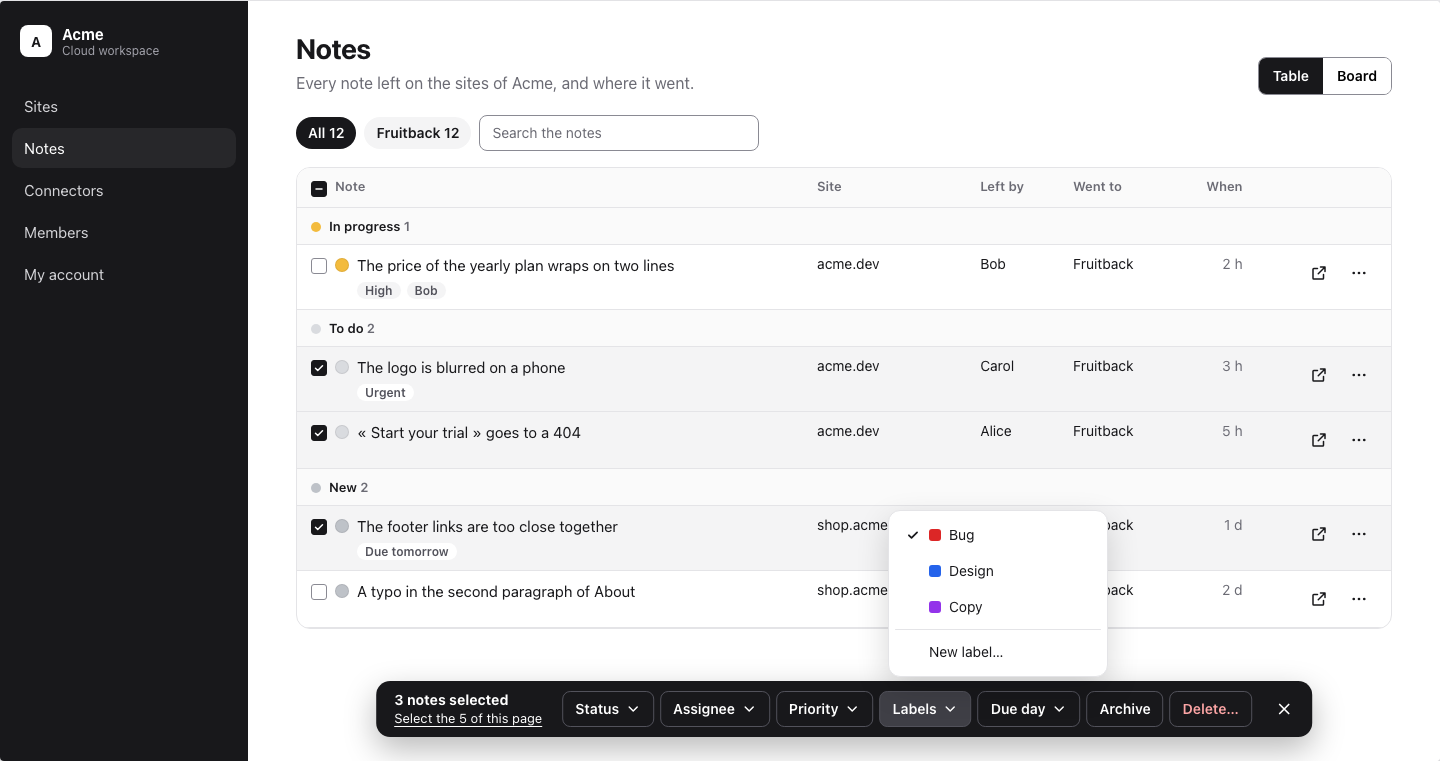
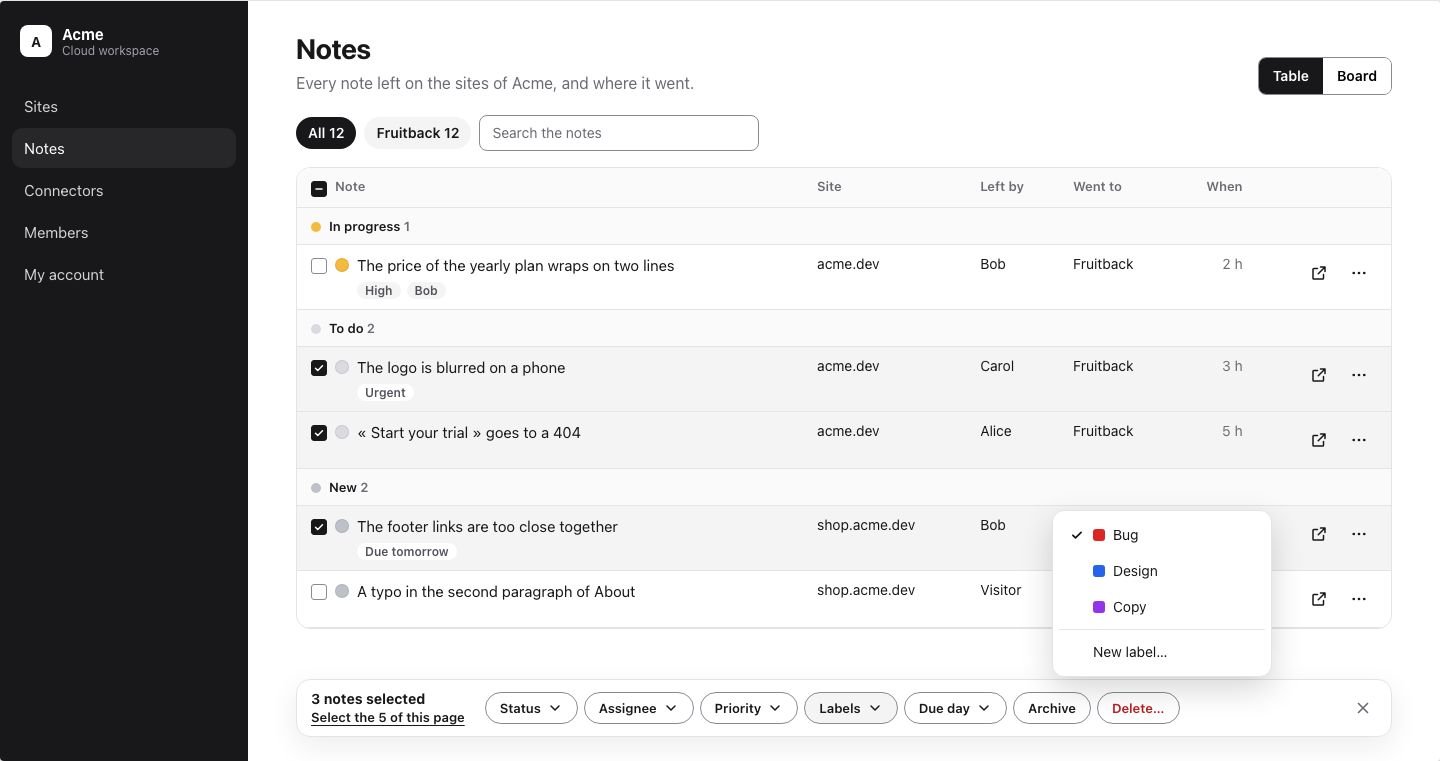
docs(design): the bar of the board is a panel of the console under the list (FRU-656)

Changed region(s): [[0.2188, 0.6951, 0.9375, 0.9974], [0.625, 0.6951, 0.6875, 0.7556], [0.6875, 0.7556, 0.7188, 0.7858]]

diff --git a/design/task-bulk/task-bulk.html b/design/task-bulk/task-bulk.html
@@ -177,7 +177,7 @@ table.texts td,table.texts th{border:1px solid var(--line);padding:6px 10px;text
   </aside>
     <div class="main-wrap"><main><header class="pg-head"><div><h1>Notes</h1><p class="lead">Every note left on the sites of Acme, and where it went.</p></div>
   <div class="view" role="group" aria-label="View"><button type="button" class="on">Table</button><button type="button">Board</button></div></header>
-  <div class="filters"><span class="chip on">All 12</span><span class="chip">Fruitback 12</span><span class="search">Search the notes</span></div><div class="table"><table><thead><tr><th><span class="cell"><span class="box some shown" aria-hidden="true"><svg aria-hidden="true" viewBox="0 0 24 24"><path d="M6 12h12" stroke="currentColor" stroke-width="3" stroke-linecap="round"/></svg></span>Note</span></th><th>Site</th><th>Left by</th><th>Went to</th><th class="end">When</th><th></th></tr></thead><tbody><tr class="group"><th colspan="6"><span class="dot" style="background:#f3bb3d"></span>In progress <span class="muted">1</span></th></tr><tr class=""><td class="c-note"><span class="cell"><span class="box off shown" aria-hidden="true"></span><span class="dot big" style="background:#f3bb3d"></span><span><a href="#" class="text">The price of the yearly plan wraps on two lines</a><span class="marks"><span class="mark">High</span><span class="mark">Bob</span></span></span></span></td><td>acme.dev</td><td>Bob</td><td>Fruitback</td><td class="end muted">2 h</td><td class="end"><span class="icons"><span class="ib"><svg aria-hidden="true" viewBox="0 0 24 24"><path d="M14 4h6v6M20 4l-9 9M18 14v5a1 1 0 0 1-1 1H5a1 1 0 0 1-1-1V7a1 1 0 0 1 1-1h5" fill="none" stroke="currentColor" stroke-width="2" stroke-linecap="round" stroke-linejoin="round"/></svg></span><span class="ib"><svg aria-hidden="true" viewBox="0 0 24 24"><circle cx="5" cy="12" r="1.8" fill="currentColor"/><circle cx="12" cy="12" r="1.8" fill="currentColor"/><circle cx="19" cy="12" r="1.8" fill="currentColor"/></svg></span></span></td></tr></tbody><tbody><tr class="group"><th colspan="6"><span class="dot" style="background:#d9dbdf"></span>To do <span class="muted">2</span></th></tr><tr class="sel"><td class="c-note"><span class="cell"><span class="box on shown" aria-hidden="true"><svg aria-hidden="true" viewBox="0 0 24 24"><path d="M5 12.5l4.5 4.5L19 7.5" fill="none" stroke="currentColor" stroke-width="3" stroke-linecap="round" stroke-linejoin="round"/></svg></span><span class="dot big" style="background:#d9dbdf"></span><span><a href="#" class="text">The logo is blurred on a phone</a><span class="marks"><span class="mark">Urgent</span></span></span></span></td><td>acme.dev</td><td>Carol</td><td>Fruitback</td><td class="end muted">3 h</td><td class="end"><span class="icons"><span class="ib"><svg aria-hidden="true" viewBox="0 0 24 24"><path d="M14 4h6v6M20 4l-9 9M18 14v5a1 1 0 0 1-1 1H5a1 1 0 0 1-1-1V7a1 1 0 0 1 1-1h5" fill="none" stroke="currentColor" stroke-width="2" stroke-linecap="round" stroke-linejoin="round"/></svg></span><span class="ib"><svg aria-hidden="true" viewBox="0 0 24 24"><circle cx="5" cy="12" r="1.8" fill="currentColor"/><circle cx="12" cy="12" r="1.8" fill="currentColor"/><circle cx="19" cy="12" r="1.8" fill="currentColor"/></svg></span></span></td></tr><tr class="sel"><td class="c-note"><span class="cell"><span class="box on shown" aria-hidden="true"><svg aria-hidden="true" viewBox="0 0 24 24"><path d="M5 12.5l4.5 4.5L19 7.5" fill="none" stroke="currentColor" stroke-width="3" stroke-linecap="round" stroke-linejoin="round"/></svg></span><span class="dot big" style="background:#d9dbdf"></span><span><a href="#" class="text">« Start your trial » goes to a 404</a></span></span></td><td>acme.dev</td><td>Alice</td><td>Fruitback</td><td class="end muted">5 h</td><td class="end"><span class="icons"><span class="ib"><svg aria-hidden="true" viewBox="0 0 24 24"><path d="M14 4h6v6M20 4l-9 9M18 14v5a1 1 0 0 1-1 1H5a1 1 0 0 1-1-1V7a1 1 0 0 1 1-1h5" fill="none" stroke="currentColor" stroke-width="2" stroke-linecap="round" stroke-linejoin="round"/></svg></span><span class="ib"><svg aria-hidden="true" viewBox="0 0 24 24"><circle cx="5" cy="12" r="1.8" fill="currentColor"/><circle cx="12" cy="12" r="1.8" fill="currentColor"/><circle cx="19" cy="12" r="1.8" fill="currentColor"/></svg></span></span></td></tr></tbody><tbody><tr class="group"><th colspan="6"><span class="dot" style="background:#bec2c8"></span>New <span class="muted">2</span></th></tr><tr class="sel"><td class="c-note"><span class="cell"><span class="box on shown" aria-hidden="true"><svg aria-hidden="true" viewBox="0 0 24 24"><path d="M5 12.5l4.5 4.5L19 7.5" fill="none" stroke="currentColor" stroke-width="3" stroke-linecap="round" stroke-linejoin="round"/></svg></span><span class="dot big" style="background:#bec2c8"></span><span><a href="#" class="text">The footer links are too close together</a><span class="marks"><span class="mark">Due tomorrow</span></span></span></span></td><td>shop.acme.dev</td><td>Bob</td><td>Fruitback</td><td class="end muted">1 d</td><td class="end"><span class="icons"><span class="ib"><svg aria-hidden="true" viewBox="0 0 24 24"><path d="M14 4h6v6M20 4l-9 9M18 14v5a1 1 0 0 1-1 1H5a1 1 0 0 1-1-1V7a1 1 0 0 1 1-1h5" fill="none" stroke="currentColor" stroke-width="2" stroke-linecap="round" stroke-linejoin="round"/></svg></span><span class="ib"><svg aria-hidden="true" viewBox="0 0 24 24"><circle cx="5" cy="12" r="1.8" fill="currentColor"/><circle cx="12" cy="12" r="1.8" fill="currentColor"/><circle cx="19" cy="12" r="1.8" fill="currentColor"/></svg></span></span></td></tr><tr class=""><td class="c-note"><span class="cell"><span class="box off shown" aria-hidden="true"></span><span class="dot big" style="background:#bec2c8"></span><span><a href="#" class="text">A typo in the second paragraph of About</a></span></span></td><td>shop.acme.dev</td><td>Visitor</td><td>Fruitback</td><td class="end muted">2 d</td><td class="end"><span class="icons"><span class="ib"><svg aria-hidden="true" viewBox="0 0 24 24"><path d="M14 4h6v6M20 4l-9 9M18 14v5a1 1 0 0 1-1 1H5a1 1 0 0 1-1-1V7a1 1 0 0 1 1-1h5" fill="none" stroke="currentColor" stroke-width="2" stroke-linecap="round" stroke-linejoin="round"/></svg></span><span class="ib"><svg aria-hidden="true" viewBox="0 0 24 24"><circle cx="5" cy="12" r="1.8" fill="currentColor"/><circle cx="12" cy="12" r="1.8" fill="currentColor"/><circle cx="19" cy="12" r="1.8" fill="currentColor"/></svg></span></span></td></tr></tbody></table></div></main><div style="--x:640px"><section class="bar" aria-label="The selected notes">
+  <div class="filters"><span class="chip on">All 12</span><span class="chip">Fruitback 12</span><span class="search">Search the notes</span></div><div class="table"><table><thead><tr><th><span class="cell"><span class="box some shown" aria-hidden="true"><svg aria-hidden="true" viewBox="0 0 24 24"><path d="M6 12h12" stroke="currentColor" stroke-width="3" stroke-linecap="round"/></svg></span>Note</span></th><th>Site</th><th>Left by</th><th>Went to</th><th class="end">When</th><th></th></tr></thead><tbody><tr class="group"><th colspan="6"><span class="dot" style="background:#f3bb3d"></span>In progress <span class="muted">1</span></th></tr><tr class=""><td class="c-note"><span class="cell"><span class="box off shown" aria-hidden="true"></span><span class="dot big" style="background:#f3bb3d"></span><span><a href="#" class="text">The price of the yearly plan wraps on two lines</a><span class="marks"><span class="mark">High</span><span class="mark">Bob</span></span></span></span></td><td>acme.dev</td><td>Bob</td><td>Fruitback</td><td class="end muted">2 h</td><td class="end"><span class="icons"><span class="ib"><svg aria-hidden="true" viewBox="0 0 24 24"><path d="M14 4h6v6M20 4l-9 9M18 14v5a1 1 0 0 1-1 1H5a1 1 0 0 1-1-1V7a1 1 0 0 1 1-1h5" fill="none" stroke="currentColor" stroke-width="2" stroke-linecap="round" stroke-linejoin="round"/></svg></span><span class="ib"><svg aria-hidden="true" viewBox="0 0 24 24"><circle cx="5" cy="12" r="1.8" fill="currentColor"/><circle cx="12" cy="12" r="1.8" fill="currentColor"/><circle cx="19" cy="12" r="1.8" fill="currentColor"/></svg></span></span></td></tr></tbody><tbody><tr class="group"><th colspan="6"><span class="dot" style="background:#d9dbdf"></span>To do <span class="muted">2</span></th></tr><tr class="sel"><td class="c-note"><span class="cell"><span class="box on shown" aria-hidden="true"><svg aria-hidden="true" viewBox="0 0 24 24"><path d="M5 12.5l4.5 4.5L19 7.5" fill="none" stroke="currentColor" stroke-width="3" stroke-linecap="round" stroke-linejoin="round"/></svg></span><span class="dot big" style="background:#d9dbdf"></span><span><a href="#" class="text">The logo is blurred on a phone</a><span class="marks"><span class="mark">Urgent</span></span></span></span></td><td>acme.dev</td><td>Carol</td><td>Fruitback</td><td class="end muted">3 h</td><td class="end"><span class="icons"><span class="ib"><svg aria-hidden="true" viewBox="0 0 24 24"><path d="M14 4h6v6M20 4l-9 9M18 14v5a1 1 0 0 1-1 1H5a1 1 0 0 1-1-1V7a1 1 0 0 1 1-1h5" fill="none" stroke="currentColor" stroke-width="2" stroke-linecap="round" stroke-linejoin="round"/></svg></span><span class="ib"><svg aria-hidden="true" viewBox="0 0 24 24"><circle cx="5" cy="12" r="1.8" fill="currentColor"/><circle cx="12" cy="12" r="1.8" fill="currentColor"/><circle cx="19" cy="12" r="1.8" fill="currentColor"/></svg></span></span></td></tr><tr class="sel"><td class="c-note"><span class="cell"><span class="box on shown" aria-hidden="true"><svg aria-hidden="true" viewBox="0 0 24 24"><path d="M5 12.5l4.5 4.5L19 7.5" fill="none" stroke="currentColor" stroke-width="3" stroke-linecap="round" stroke-linejoin="round"/></svg></span><span class="dot big" style="background:#d9dbdf"></span><span><a href="#" class="text">« Start your trial » goes to a 404</a></span></span></td><td>acme.dev</td><td>Alice</td><td>Fruitback</td><td class="end muted">5 h</td><td class="end"><span class="icons"><span class="ib"><svg aria-hidden="true" viewBox="0 0 24 24"><path d="M14 4h6v6M20 4l-9 9M18 14v5a1 1 0 0 1-1 1H5a1 1 0 0 1-1-1V7a1 1 0 0 1 1-1h5" fill="none" stroke="currentColor" stroke-width="2" stroke-linecap="round" stroke-linejoin="round"/></svg></span><span class="ib"><svg aria-hidden="true" viewBox="0 0 24 24"><circle cx="5" cy="12" r="1.8" fill="currentColor"/><circle cx="12" cy="12" r="1.8" fill="currentColor"/><circle cx="19" cy="12" r="1.8" fill="currentColor"/></svg></span></span></td></tr></tbody><tbody><tr class="group"><th colspan="6"><span class="dot" style="background:#bec2c8"></span>New <span class="muted">2</span></th></tr><tr class="sel"><td class="c-note"><span class="cell"><span class="box on shown" aria-hidden="true"><svg aria-hidden="true" viewBox="0 0 24 24"><path d="M5 12.5l4.5 4.5L19 7.5" fill="none" stroke="currentColor" stroke-width="3" stroke-linecap="round" stroke-linejoin="round"/></svg></span><span class="dot big" style="background:#bec2c8"></span><span><a href="#" class="text">The footer links are too close together</a><span class="marks"><span class="mark">Due tomorrow</span></span></span></span></td><td>shop.acme.dev</td><td>Bob</td><td>Fruitback</td><td class="end muted">1 d</td><td class="end"><span class="icons"><span class="ib"><svg aria-hidden="true" viewBox="0 0 24 24"><path d="M14 4h6v6M20 4l-9 9M18 14v5a1 1 0 0 1-1 1H5a1 1 0 0 1-1-1V7a1 1 0 0 1 1-1h5" fill="none" stroke="currentColor" stroke-width="2" stroke-linecap="round" stroke-linejoin="round"/></svg></span><span class="ib"><svg aria-hidden="true" viewBox="0 0 24 24"><circle cx="5" cy="12" r="1.8" fill="currentColor"/><circle cx="12" cy="12" r="1.8" fill="currentColor"/><circle cx="19" cy="12" r="1.8" fill="currentColor"/></svg></span></span></td></tr><tr class=""><td class="c-note"><span class="cell"><span class="box off shown" aria-hidden="true"></span><span class="dot big" style="background:#bec2c8"></span><span><a href="#" class="text">A typo in the second paragraph of About</a></span></span></td><td>shop.acme.dev</td><td>Visitor</td><td>Fruitback</td><td class="end muted">2 d</td><td class="end"><span class="icons"><span class="ib"><svg aria-hidden="true" viewBox="0 0 24 24"><path d="M14 4h6v6M20 4l-9 9M18 14v5a1 1 0 0 1-1 1H5a1 1 0 0 1-1-1V7a1 1 0 0 1 1-1h5" fill="none" stroke="currentColor" stroke-width="2" stroke-linecap="round" stroke-linejoin="round"/></svg></span><span class="ib"><svg aria-hidden="true" viewBox="0 0 24 24"><circle cx="5" cy="12" r="1.8" fill="currentColor"/><circle cx="12" cy="12" r="1.8" fill="currentColor"/><circle cx="19" cy="12" r="1.8" fill="currentColor"/></svg></span></span></td></tr></tbody></table></div></main><div style="--x:804px"><section class="bar" aria-label="The selected notes">
     <div class="bar-row">
       <span class="bar-count"><b>3 notes selected</b><a href="#">Select the 5 of this page</a></span>
       <span class="bar-actions">
